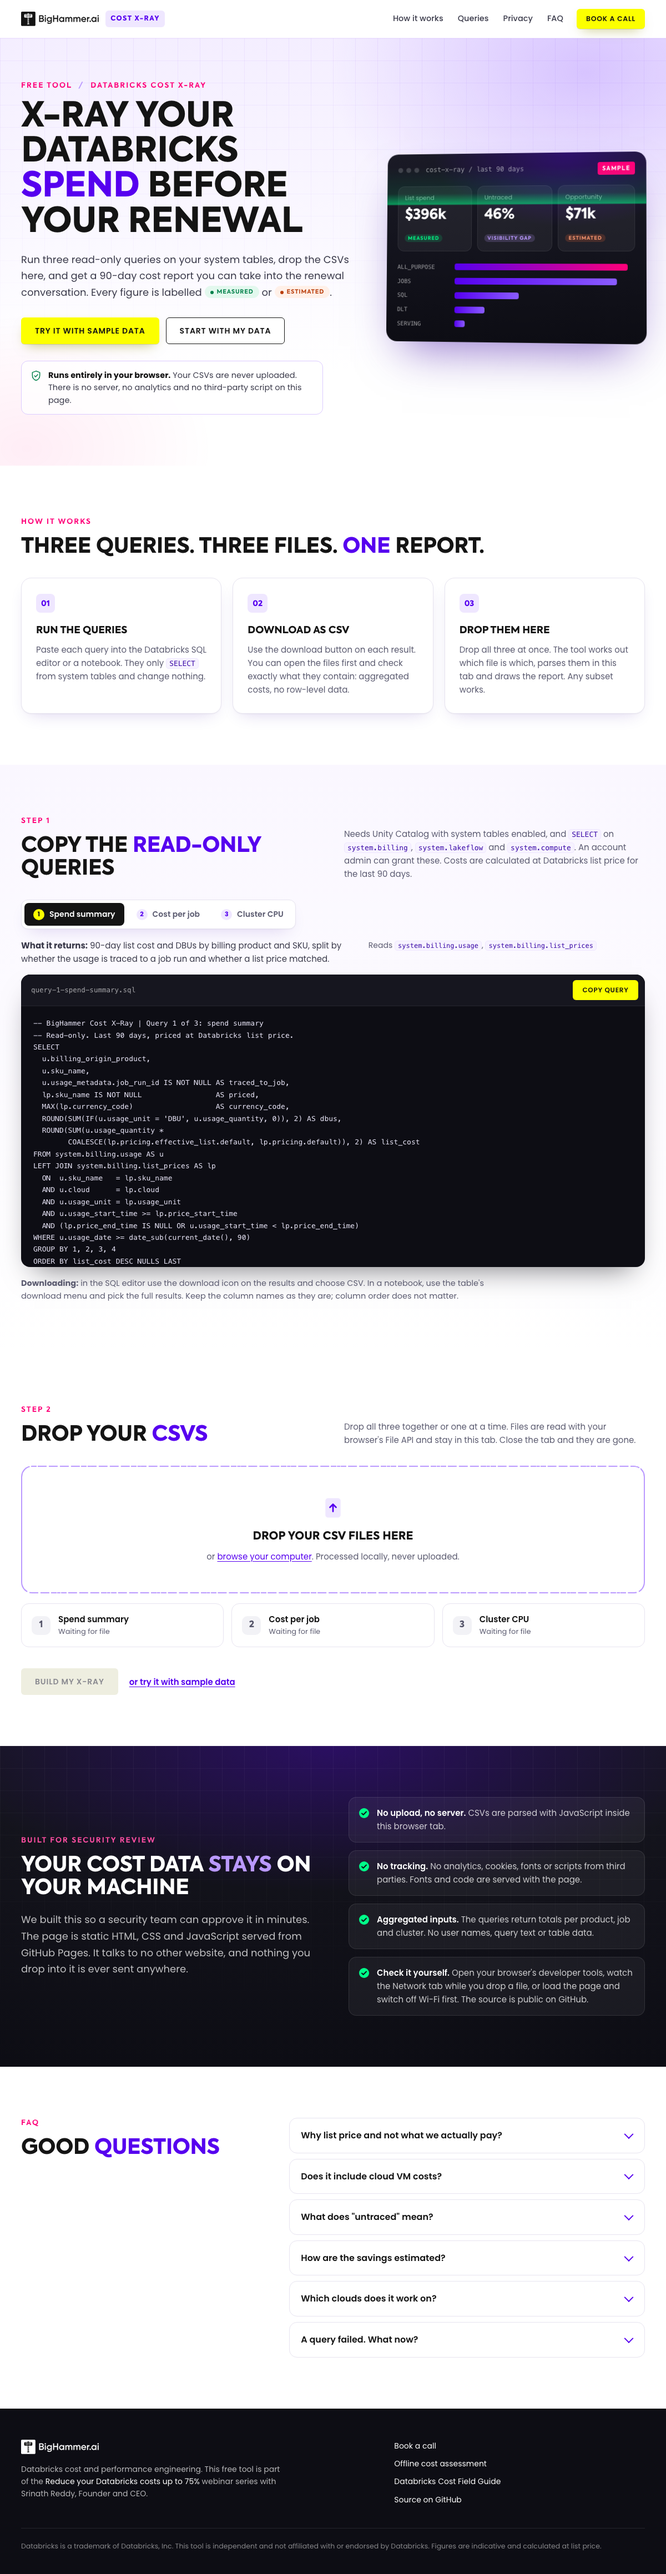
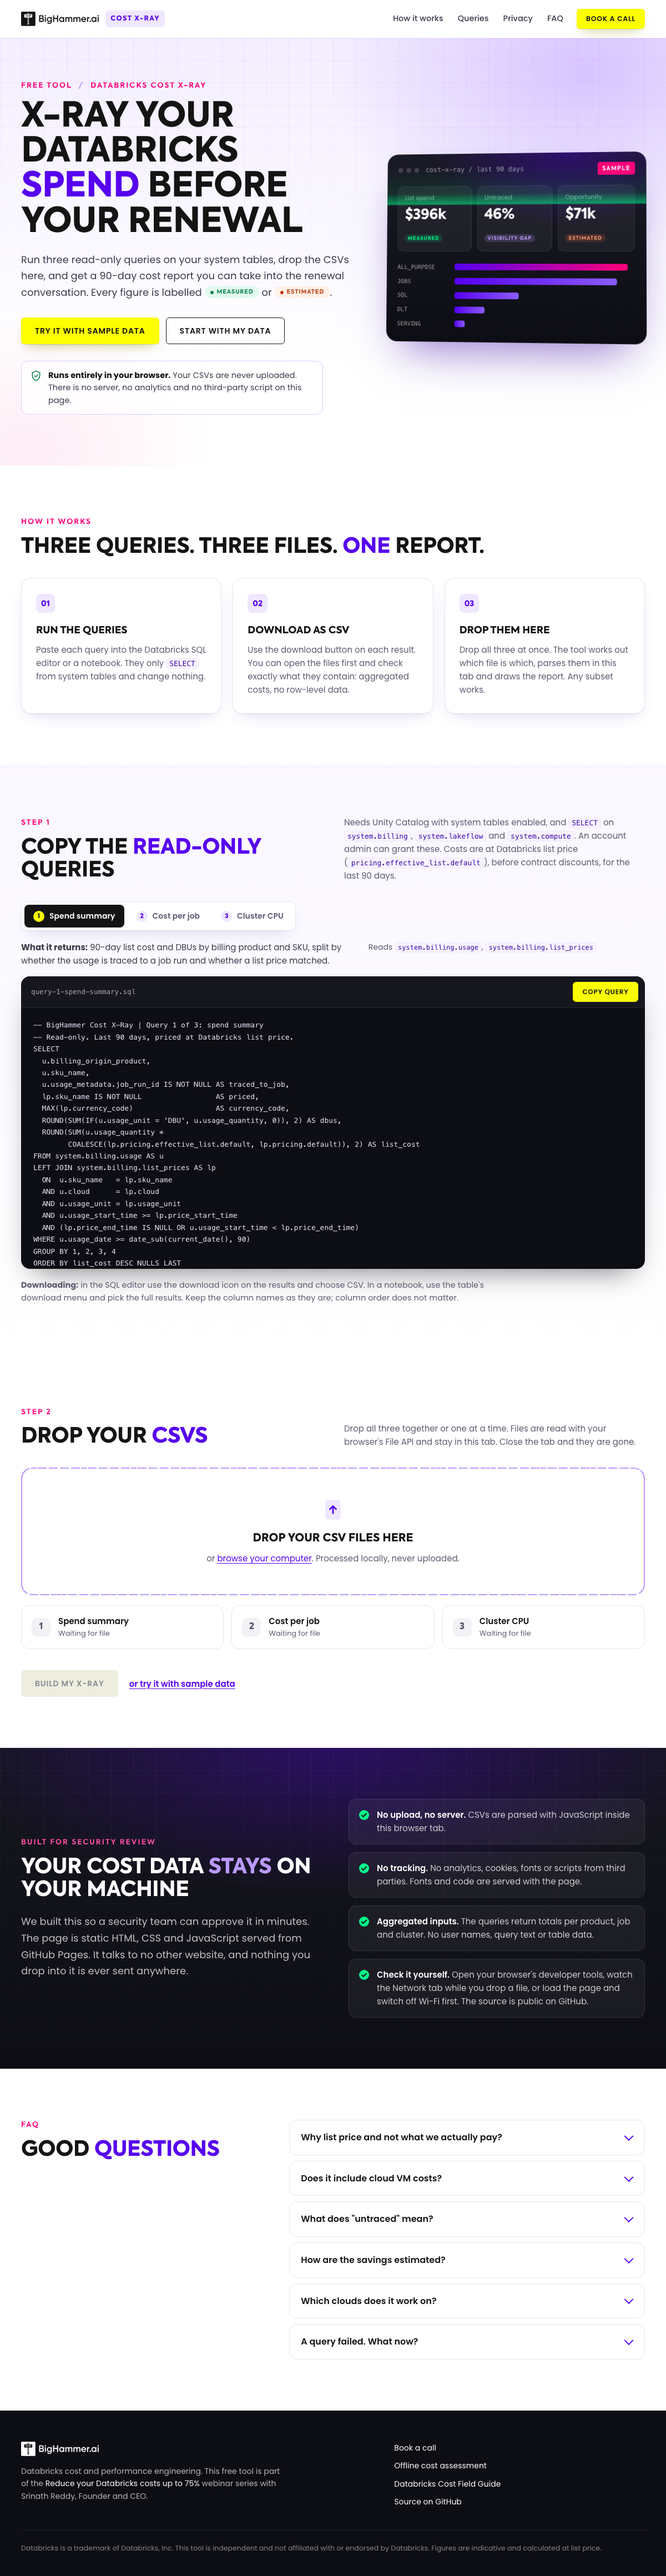
Final run state via MAX_BY, list price wording, offline assessment description

diff --git a/assets/app.js b/assets/app.js
@@ -370,7 +370,7 @@
     h += '<div class="r-title-row"><div>';
     h += '<p class="eyebrow">' + (state.sample ? '<span class="sample-flag">Sample data</span> ' : '') + 'Databricks Cost X-Ray <span class="dot" aria-hidden="true">/</span> last ' + DAYS + ' days</p>';
     h += '<h1 class="h1" style="font-size:clamp(32px,4.4vw,52px)">Your 90-day <em>cost</em> <span class="nw">X-Ray</span></h1>';
-    h += '<div class="r-meta"><span class="chip chip-g">Generated ' + esc(dateStr) + '</span><span class="chip chip-g">List prices, ' + esc(currency) + '</span>' +
+    h += '<div class="r-meta"><span class="chip chip-g">Generated ' + esc(dateStr) + '</span><span class="chip chip-g">List price, before contract discounts (' + esc(currency) + ')</span>' +
       ['spend', 'jobs', 'cpu'].map(function (k) { return '<span class="chip ' + (D[k] ? 'chip-m' : 'chip-n') + '">Q' + SCHEMAS[k].q + ' ' + SCHEMAS[k].label + (D[k] ? '' : ': not provided') + '</span>'; }).join('') + '</div>';
     h += '</div><div class="r-legend" aria-label="Legend"><div>' + M_CHIP + '<span>Read directly from your system tables</span></div><div><span class="chip chip-e">Estimated</span><span>Derived with a stated rule. Treat as a range, not a promise</span></div></div>';
     h += '</div></div></section>';
@@ -380,7 +380,7 @@
     // KPIs
     h += '<div class="kpis">';
     h += m.total != null
-      ? kpi('', '90-day list spend', money(m.total), M_CHIP, intf(m.skuCount) + ' SKUs at list price' + (m.unpriced && m.unpriced.length ? '. ' + m.unpriced.length + ' usage line' + (m.unpriced.length > 1 ? 's' : '') + ' had no list price match' : ''))
+      ? kpi('', '90-day list spend', money(m.total), M_CHIP, intf(m.skuCount) + ' SKUs at list price, before contract discounts' + (m.unpriced && m.unpriced.length ? '. ' + m.unpriced.length + ' usage line' + (m.unpriced.length > 1 ? 's' : '') + ' had no list price match' : ''))
       : kpi('na', '90-day list spend', 'Needs query 1', '<span class="chip chip-n">Missing</span>', 'Add the spend summary file');
     h += m.traced != null
       ? kpi('', 'Traced to job runs', pct(m.total ? m.traced / m.total : 0), M_CHIP, money(m.traced) + ' traced. <b>' + money(m.untraced) + '</b> untraced is a visibility gap, not savings')
@@ -511,6 +511,7 @@
       '<li><b>Renewal evidence.</b> A defensible baseline and forecast to take into your Databricks negotiation.</li></ul>' +
       '<div class="cta-row"><a class="btn btn-y print-url" data-short="bighammer.ai/book-demo" href="' + esc(linkFor('book', 'report-book-call')) + '">Book a call with BigHammer</a>' +
       '<a class="btn btn-outline-l print-url" data-short="assessment.bighammerops.com" href="' + esc(linkFor('assess', 'report-offline-assessment')) + '">Run the offline assessment</a></div>' +
+      '<p class="assess-note">The offline assessment is 7 published, read-only SQL queries you run in one Databricks SQL warehouse session. You export the results to CSV, zip them and send them to BigHammer. It needs a temporary view and a catalog and schema where the collected result tables can be kept.</p>' +
       '<a class="guide-link" href="' + esc(linkFor('guide', 'report-field-guide')) + '">Read the Databricks Cost Field Guide</a></section>';
     h += '</div>';
 
@@ -518,7 +519,7 @@
     h += '<section class="card method" aria-labelledby="h-meth"><h3 id="h-meth">Method and definitions</h3><dl>' +
       '<dt>List cost</dt><dd><code>usage_quantity</code> × <code>pricing.effective_list.default</code> from <code>system.billing.list_prices</code>, matched on SKU, cloud, usage unit and the price validity window.</dd>' +
       '<dt>Traced</dt><dd>Usage where <code>usage_metadata.job_run_id</code> is not null.</dd>' +
-      '<dt>Failed cost</dt><dd>Cost of job runs whose final <code>result_state</code> in <code>system.lakeflow.job_run_timeline</code> is ' + FAILED_STATES + '.</dd>' +
+      '<dt>Failed cost</dt><dd>Cost of job runs whose final <code>result_state</code> (latest non-null value per run) in <code>system.lakeflow.job_run_timeline</code> is ' + FAILED_STATES + '.</dd>' +
       '<dt>Scheduled runs</dt><dd>Runs with <code>trigger_type</code> CRON, PERIODIC, CONTINUOUS, FILE_ARRIVAL or TABLE.</dd>' +
       '<dt>All-Purpose cost</dt><dd>SKUs containing <code>ALL_PURPOSE</code> and not <code>SERVERLESS</code>.</dd>' +
       '<dt>CPU</dt><dd><code>cpu_user_percent + cpu_system_percent</code> on worker nodes from <code>system.compute.node_timeline</code>, per-minute samples. Single-node clusters have no workers and do not appear.</dd>' +
@@ -568,7 +569,7 @@
 
   function summary() {
     var m = lastModel, L = [];
-    L.push('Databricks Cost X-Ray: last ' + DAYS + ' days at list price (' + currency + ')');
+    L.push('Databricks Cost X-Ray: last ' + DAYS + ' days at list price, before contract discounts (' + currency + ')');
     if (state.sample) L.push('SAMPLE DATA: synthetic workloads, not a real account');
     L.push('');
     if (m.total != null) L.push('Total list spend: ' + money(m.total) + ' [measured]');

diff --git a/index.html b/index.html
@@ -124,7 +124,7 @@
           <p class="eyebrow">Step 1</p>
           <h2 class="h2">Copy the <em>read-only</em> queries</h2>
         </div>
-        <p class="sec-note">Needs Unity Catalog with system tables enabled, and <code>SELECT</code> on <code>system.billing</code>, <code>system.lakeflow</code> and <code>system.compute</code>. An account admin can grant these. Costs are calculated at Databricks list price for the last 90 days.</p>
+        <p class="sec-note">Needs Unity Catalog with system tables enabled, and <code>SELECT</code> on <code>system.billing</code>, <code>system.lakeflow</code> and <code>system.compute</code>. An account admin can grant these. Costs are at Databricks list price (<code>pricing.effective_list.default</code>), before contract discounts, for the last 90 days.</p>
       </div>
 
       <div class="qtabs" role="tablist" aria-label="Queries">
@@ -195,9 +195,9 @@ WITH run_cost AS (
   GROUP BY 1, 2, 3
 ),
 runs AS (
-  -- runs over 1 hour span several rows; result_state is only set on the last row
+  -- runs over 1 hour span several rows; take the final state of each run
   SELECT workspace_id, job_id, run_id,
-         MAX(result_state) AS result_state,
+         MAX_BY(result_state, period_end_time) FILTER (WHERE result_state IS NOT NULL) AS result_state,
          MAX(trigger_type) AS trigger_type
   FROM system.lakeflow.job_run_timeline
   WHERE period_start_time &gt;= date_sub(current_date(), 97)

diff --git a/assets/app.css b/assets/app.css
@@ -447,3 +447,4 @@ table.t{width:100%;border-collapse:collapse;font-size:14px;font-variant-numeric:
 }
 @media print{.t td.name{min-width:150px;white-space:normal}.sample-flag{border:1px solid #FE0079}}
 @media print{.r-body{padding-bottom:0}.t tfoot{display:table-row-group}main{min-height:0}.r-foot{break-before:avoid}}
+.assess-note{margin-top:16px;font-size:13px;line-height:1.55;color:rgba(255,255,255,.66);max-width:40em}@media print{.assess-note{font-size:8pt}}
